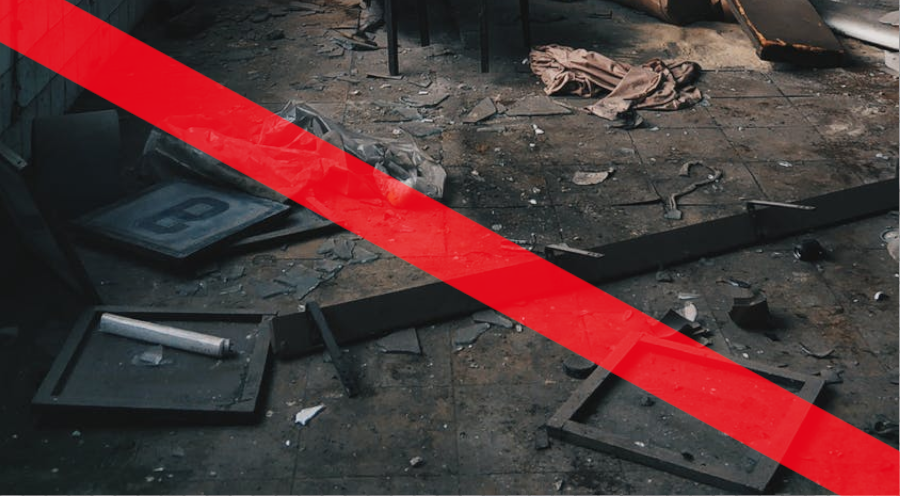
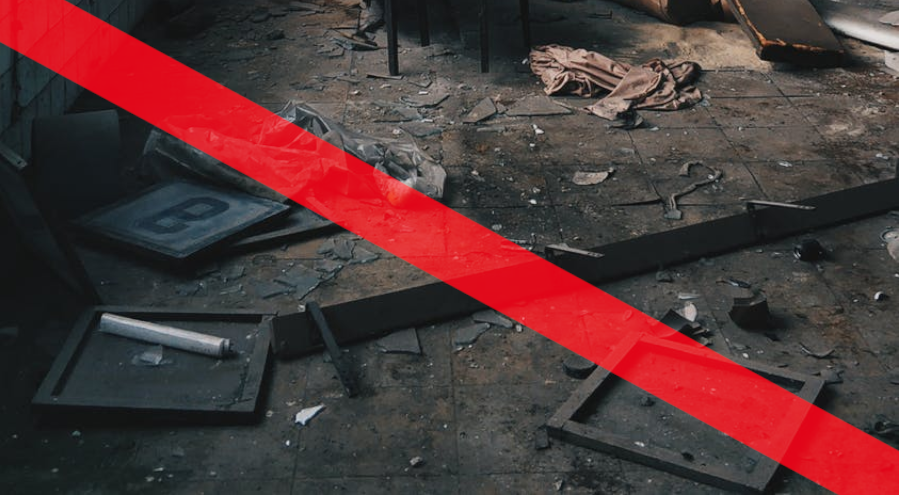
Add readme, improve preview image

diff --git a/README.md b/README.md
@@ -1,0 +1,12 @@
+# About
+
+<img src="About\Preview.png" alt="Preview" />
+
+This mod prevents all types of filth, including debris, blood, and similar elements, even those introduced by other mods.
+
+# Information
+
+- This mod does not affect performance negatively; it operates briefly during game startup. It may, however, slightly enhance performance for older systems.
+- The mod will not remove any existing filth present before its installation.
+- Please note that firefoam is classified as filth in this mod, which means it extinguishes fire and then immediately disappears.
+- This mod can be safely added to or removed from an existing game.
